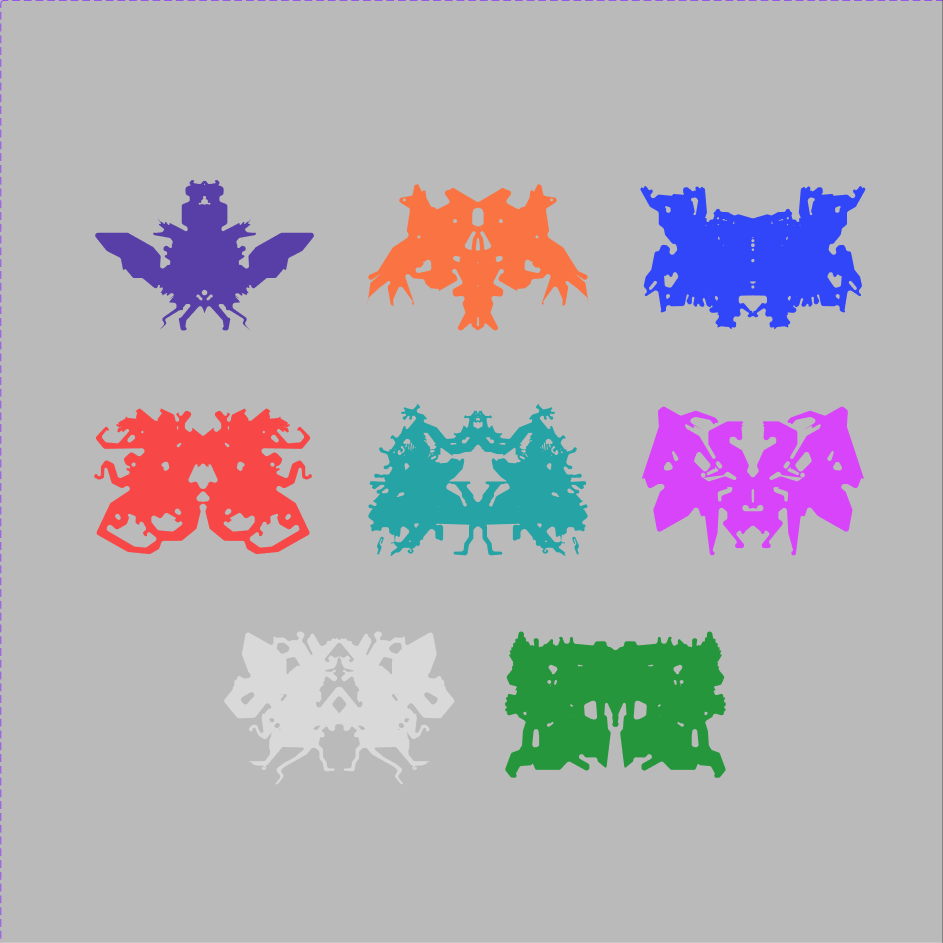
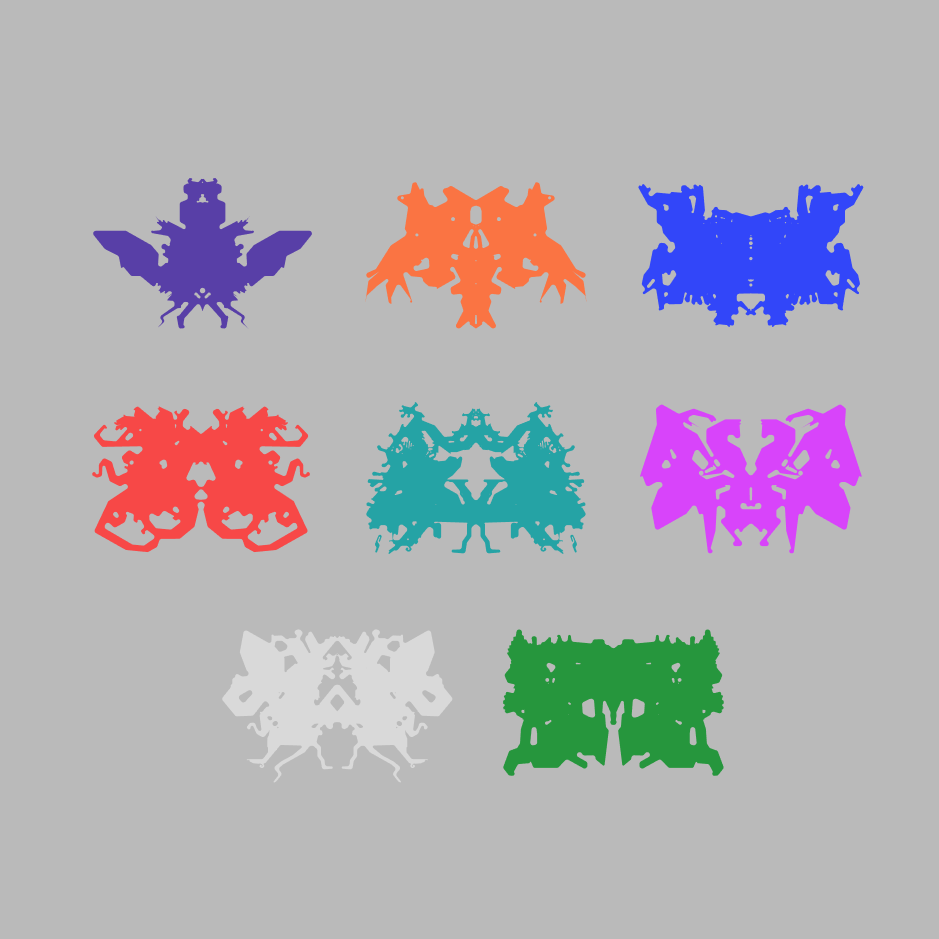
Drop the tiles' baked-in strokes, restyle the project link, add videos folder
The Figma exports carried each frame's 1.2px stroke, which doubled up
against the page. Cropped off (and the faint dashed edge on Emotions).
Book cover re-exported from the updated Figma frame.

"Link to the project" is 14px, its underline drawn 4px below the text,
and it redraws left to right on hover.

videos/ is where the case study's videos go; its README says how to name
them.

Claude-Session: https://claude.ai/code/session_01APLcPoQN59rA7hQUSKZUyN

diff --git a/components/CaseStudy.module.css b/components/CaseStudy.module.css
@@ -104,16 +104,24 @@
   letter-spacing: 0.18px;
 }
 
+/* the underline is drawn, not text-decoration, so it can sit clear of the
+   letters and redraw itself left to right on hover */
 .link {
   align-self: flex-start;
+  padding-bottom: 4px;
   font-family: var(--ui);
-  font-size: 16px;
+  font-size: 14px;
   line-height: 1.3;
-  letter-spacing: 0.16px;
+  letter-spacing: 0.14px;
   text-transform: uppercase;
-  text-decoration: underline;
-  text-decoration-thickness: from-font;
+  background: linear-gradient(currentColor, currentColor) left bottom / 100% 1px no-repeat;
 }
+@keyframes drawLine {
+  from { background-size: 0% 1px; }
+  to   { background-size: 100% 1px; }
+}
+.link:hover,
+.link:focus-visible { animation: drawLine 0.46s cubic-bezier(0.33, 0, 0.67, 1); }
 
 .label {
   padding: 16px 16px 14px; /* 14 is the gap to the text, and it stays when folded */
@@ -198,7 +206,7 @@
 }
 
 @media (prefers-reduced-motion: reduce) {
-  .nextArrow path, .backArrow path { animation: none !important; }
+  .nextArrow path, .backArrow path, .link { animation: none !important; }
 }
 
 /* Not designed yet: below the desktop layout the sidebar simply sits on top. */

diff --git a/public/projects/the-monster-archetype/videos/README.md b/public/projects/the-monster-archetype/videos/README.md
@@ -1,0 +1,20 @@
+# Videos — The Monster Archetype
+
+Drop the videos here (MP4 preferred, under ~20MB each).
+
+**Replacing an image?** Name the video after it:
+
+| Tile on the page   | Name the video       |
+| ------------------ | -------------------- |
+| Glyphs             | `glyphs.mp4`         |
+| Rorschach          | `rorschach.mp4`      |
+| Emotions           | `emotions.mp4`       |
+| Book — cover       | `book-cover.mp4`     |
+| Spread A–F         | `spread-a.mp4` … `spread-f.mp4` |
+| Book — open        | `book-open.mp4`      |
+| Website            | `website.mp4`        |
+| Screen A / B       | `screen-a.mp4`, `screen-b.mp4` |
+| Social preview     | `social-preview.mp4` |
+
+**New video, not replacing anything?** Any name works — Claude will look at it
+and place it, or say where it goes (e.g. "after spread B").
